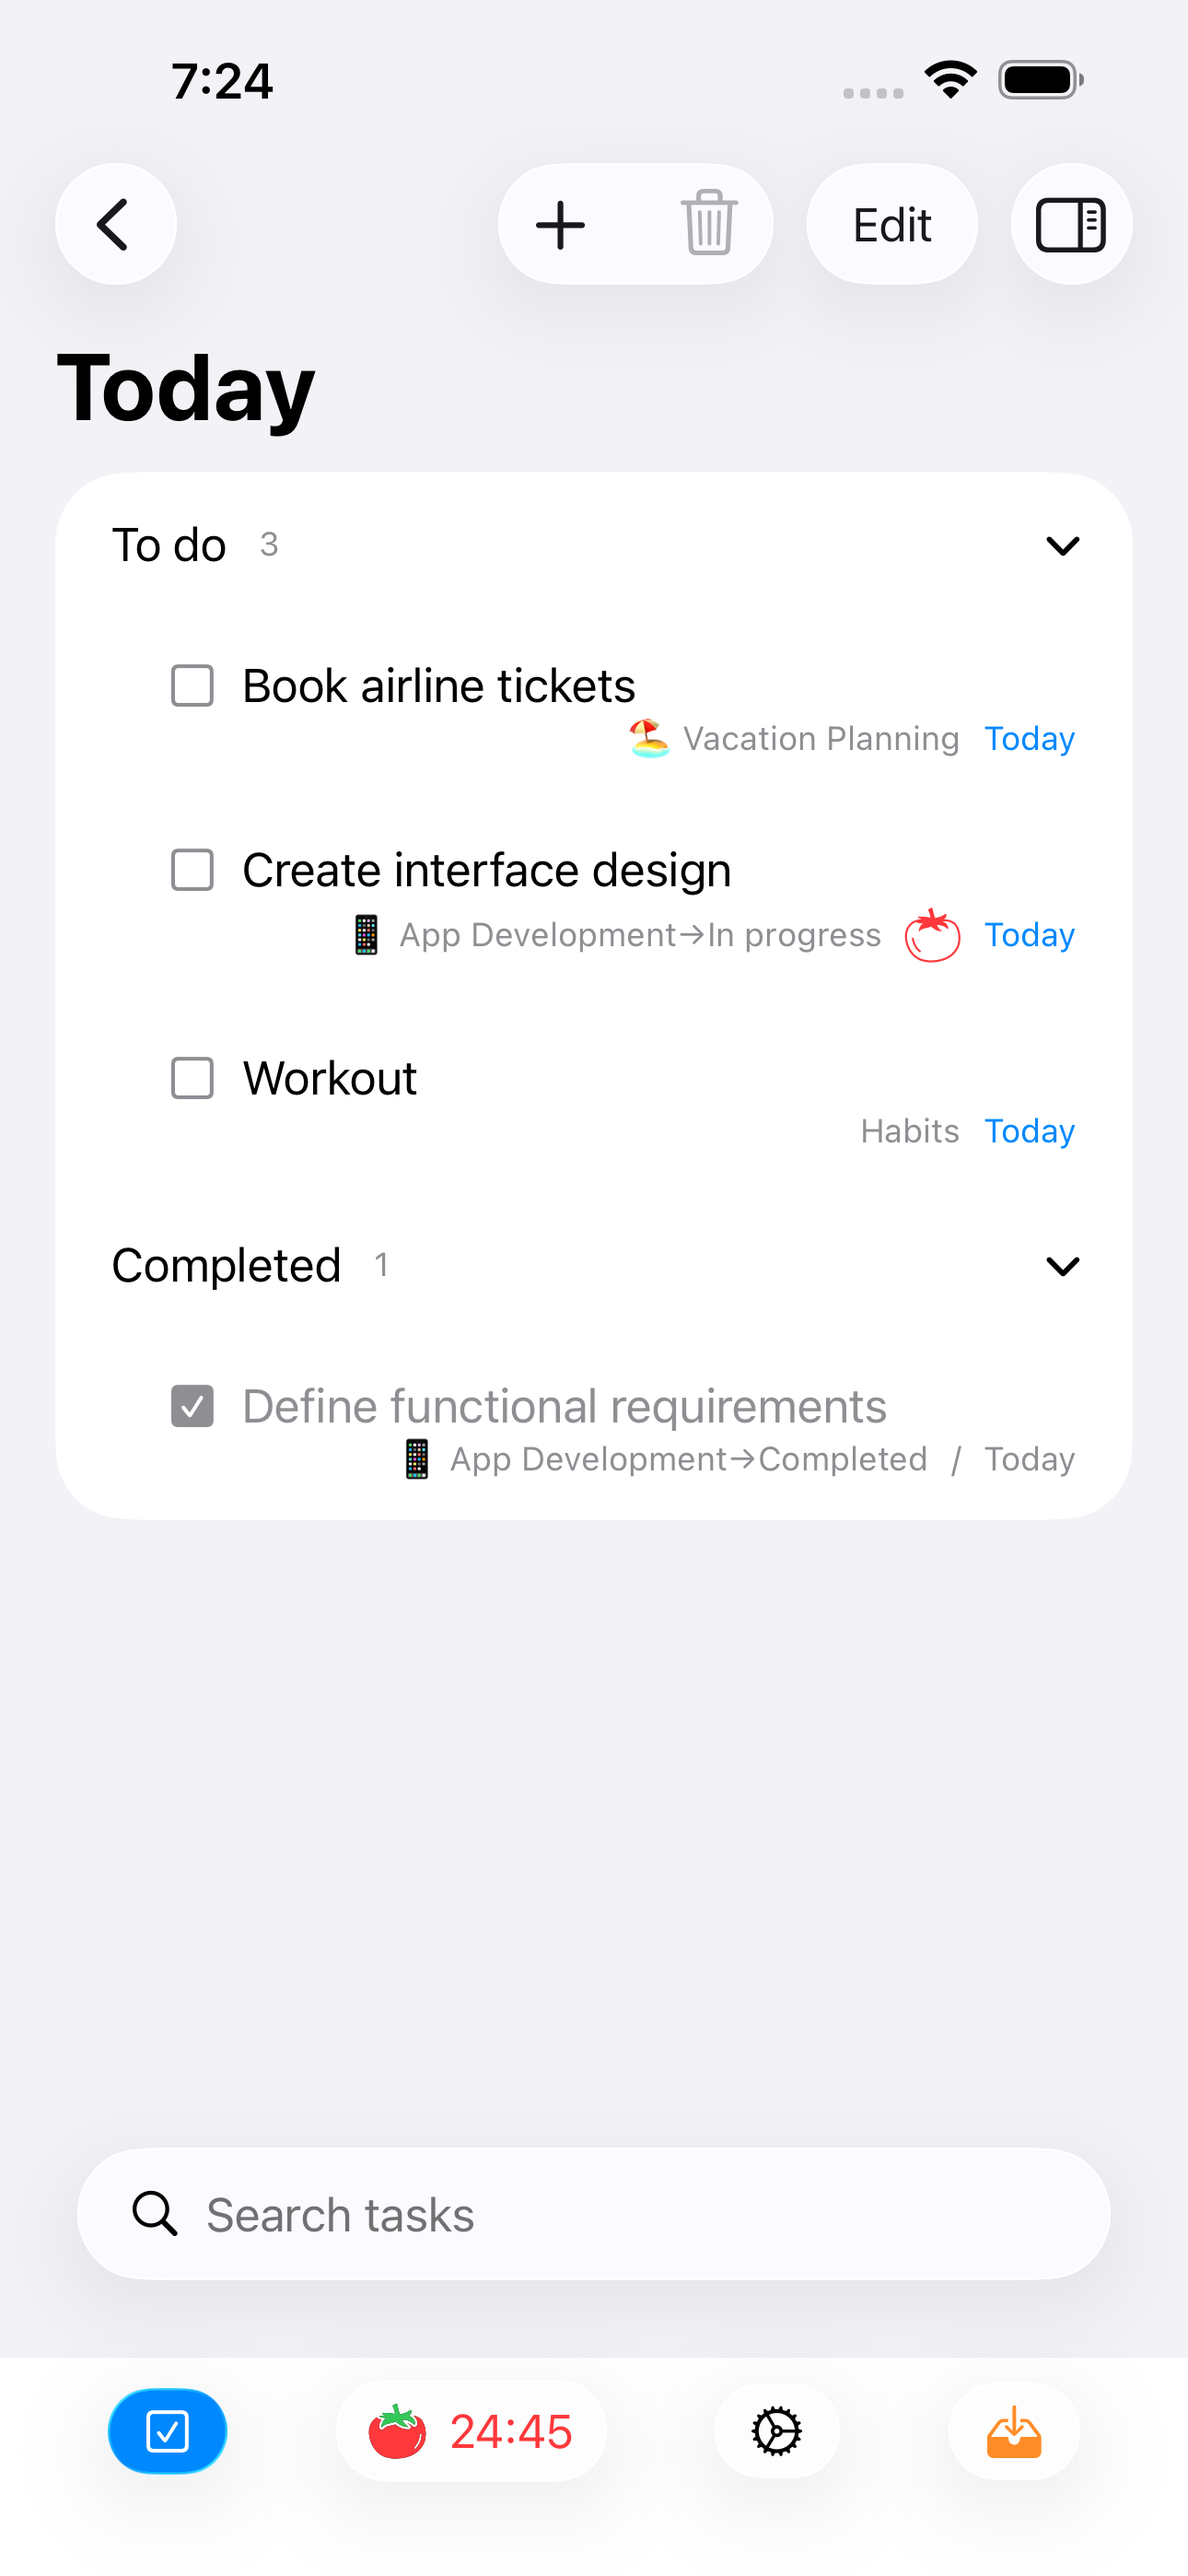
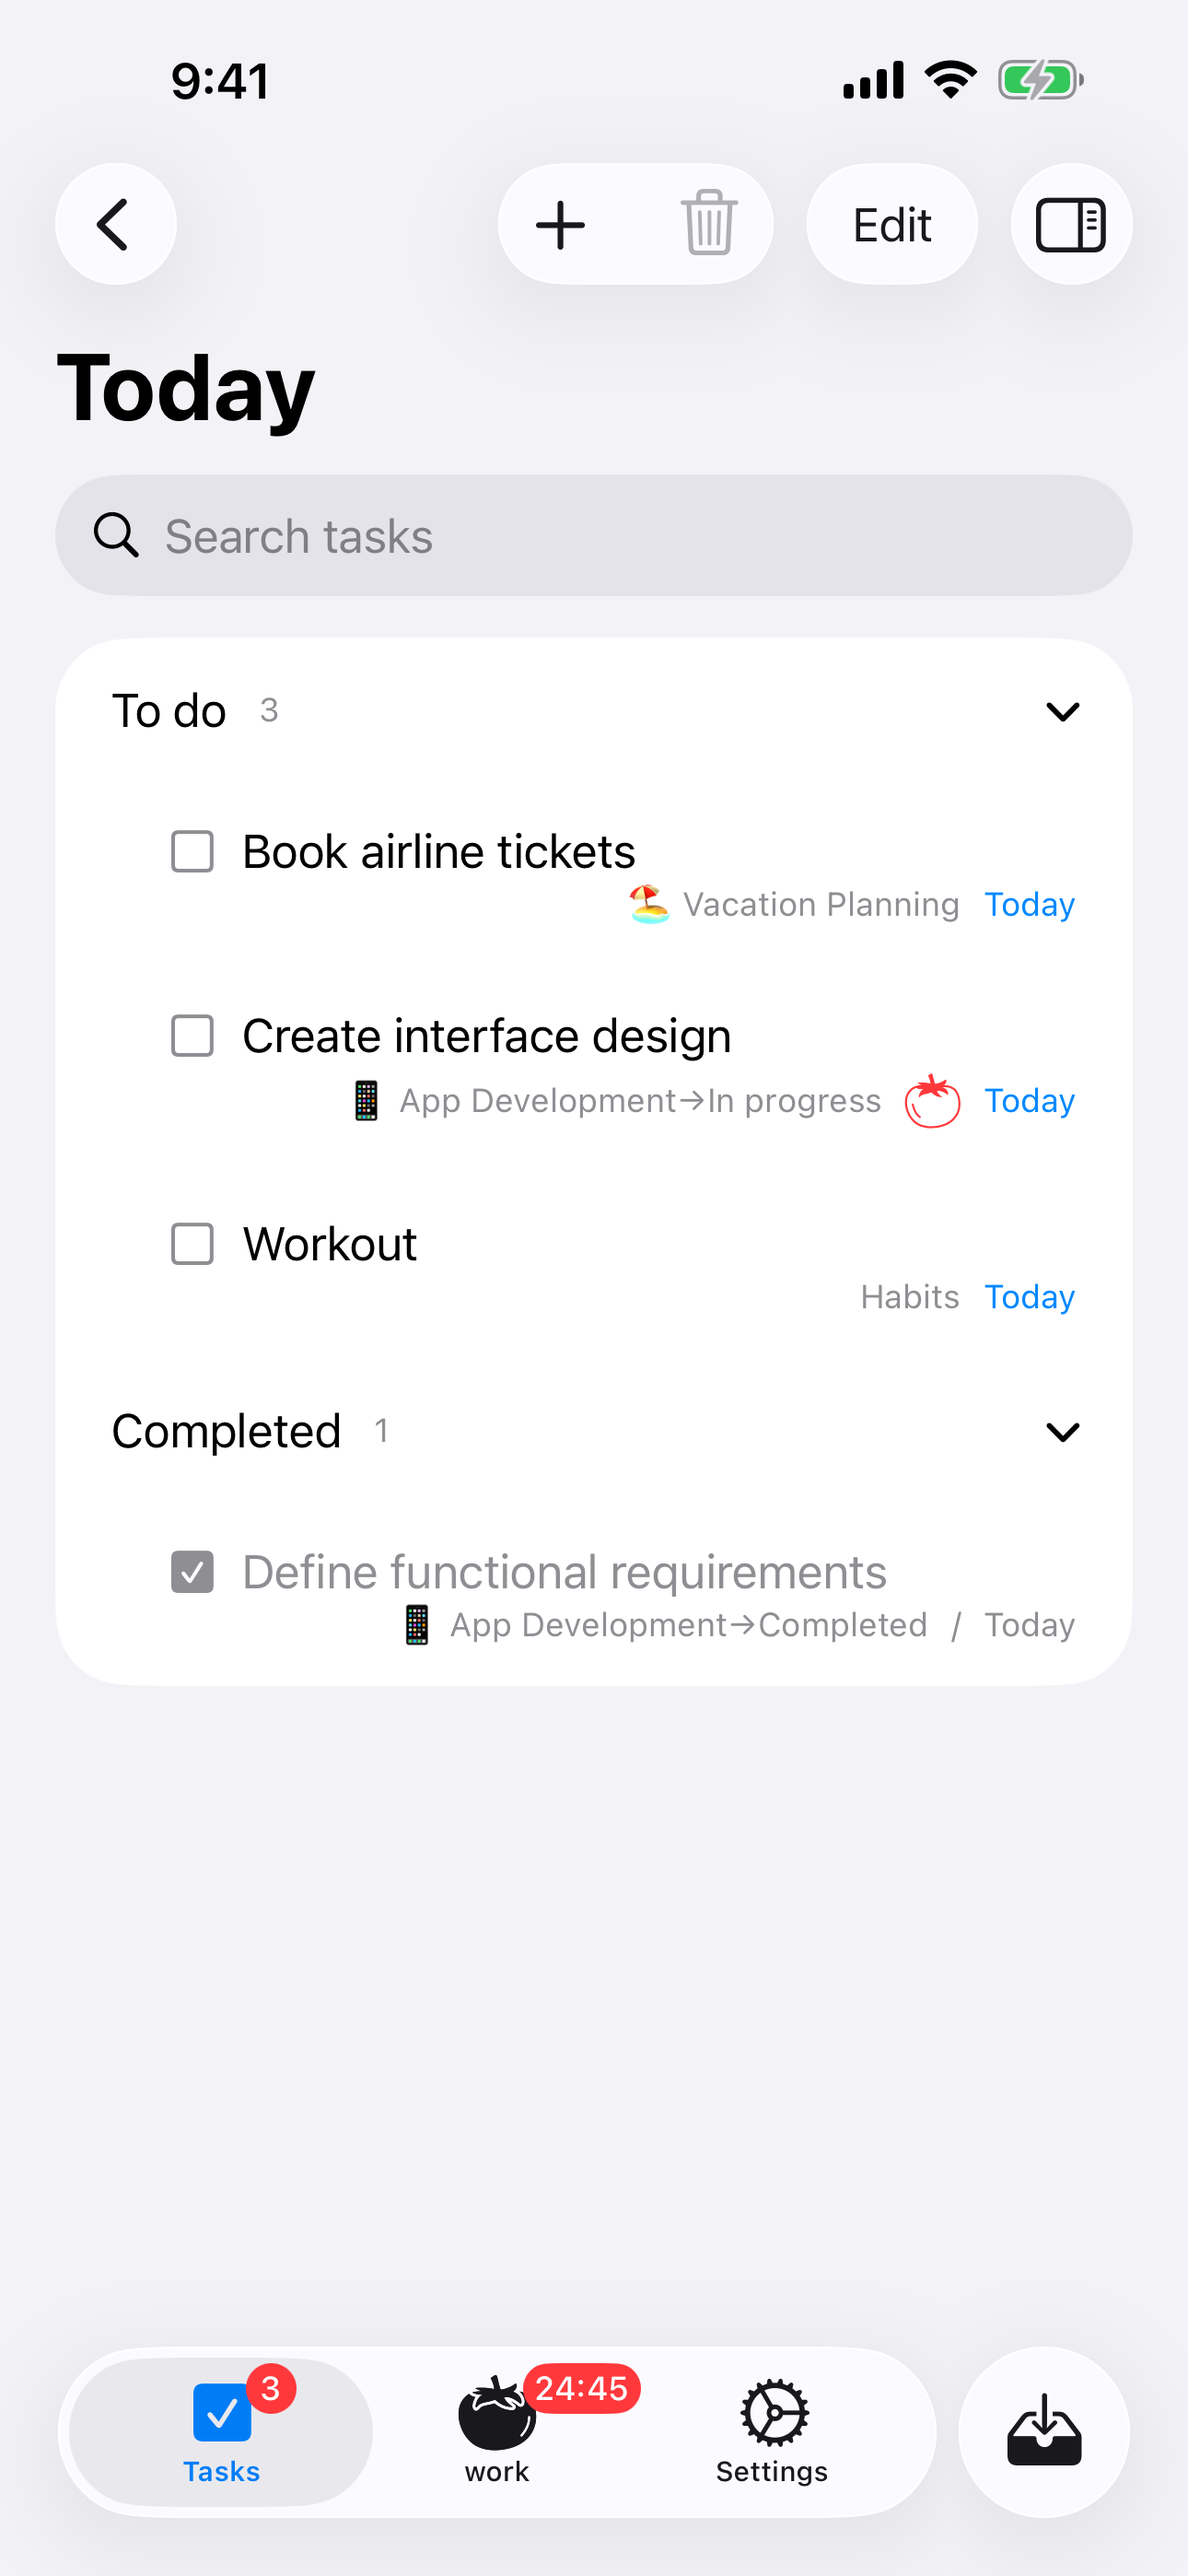
Release 26.4

diff --git a/_pages/changelog.md b/_pages/changelog.md
@@ -10,6 +10,13 @@ include_in_header: true
 
 ### `Latest`
 
+# **Version 26.4**
+
+#### What's New
+- Design with Liquid Glass
+- Project groups in the context menu
+- Fixes and improvements
+
 # **Version 26.2**
 
 #### What's New
